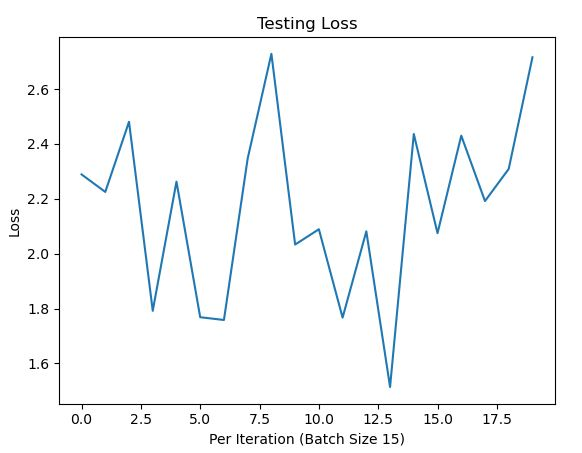
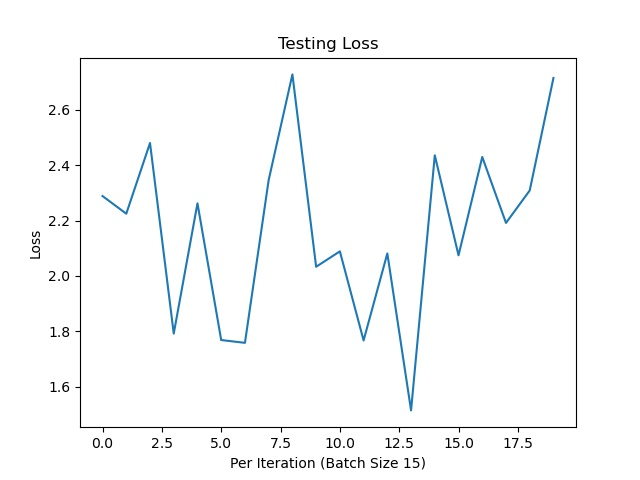
Modified images

Changed region(s): [[0.0, 0.0309, 0.9588, 0.989], [0.3402, 0.3091, 0.433, 0.7108]]

diff --git a/plot_loss.py b/plot_loss.py
@@ -10,14 +10,16 @@ import matplotlib.pyplot as plt
 
 training_loss = []
 testing_loss = []
-with open('./pkl_files/Training_loss_43_epoch.pkl','rb') as f:      #Change the epoch number to print different data
+epoch = str(100)
+print('Plotting test and training losses for Epoch:'+epoch)
+with open('./pkl_files/Training_loss_'+epoch+'_epoch.pkl','rb') as f:      #Change the epoch number to print different data
     while True:
         try:
             training_loss.append(pickle.load(f))
         except EOFError:
             break
 
-with open('./pkl_files/Test_loss_43_epoch.pkl','rb') as f:          #Change the epoch number to print different data
+with open('./pkl_files/Test_loss_'+epoch+'_epoch.pkl','rb') as f:          #Change the epoch number to print different data
     while True:
         try:
             testing_loss.append(pickle.load(f))
@@ -44,11 +46,11 @@ plt.title("Training Loss")
 plt.ylabel("Loss")
 plt.xlabel("Per Iteration (Batch Size 15)")
 plt.plot(train_loss)
+plt.savefig('pictures/training_'+epoch+'_epoch.JPG')
 
 plt.figure(2)
 plt.title("Testing Loss")
 plt.ylabel("Loss")
 plt.xlabel("Per Iteration (Batch Size 15)")
 plt.plot(test_loss)
-
-plt.show()
+plt.savefig('pictures/test_'+epoch+'_epoch.JPG')
